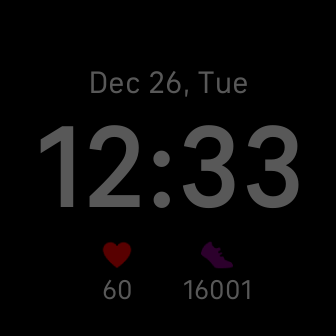
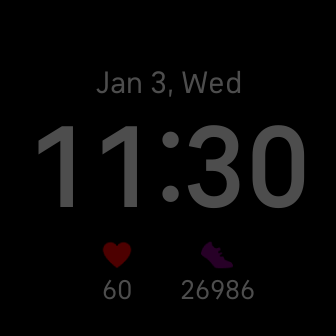
✨ Add support for 12h format and change numbers to monospacing

diff --git a/app/index.js b/app/index.js
@@ -6,6 +6,7 @@ import { BodyPresenceSensor } from "body-presence";
 import { today } from "user-activity";
 import { display } from "display";
 import sleep from "sleep";
+import { preferences } from "user-settings";
 
 const Tap = (element, callback) => {
   let timer;
@@ -64,20 +65,33 @@ const month = [
 const getDay = (date) =>
   `${month[date.getMonth()]} ${date.getDate()}, ${weekdays[date.getDay()]}`;
 
-const zeroPad = (i) => (i < 10 ? (i = "0" + i) : i);
+const monoDigits = (number) => {
+  const text = number.toString();
+  const [tens, unit] = text;
+  const mono = (n) => {
+    return String.fromCharCode(0x10 + Number(n));
+  };
+  return `${mono(tens)}${mono(unit)}`;
+};
+const formatTime = (i) => monoDigits(i < 10 ? (i = "0" + i) : i);
 
 clock.granularity = "minutes";
 
 const time = document.getElementById("clock");
 const date = document.getElementById("date");
+const amPm = document.getElementById("am-pm");
 
 clock.ontick = (evt) => {
+  const is24h = preferences.clockDisplay === "24h";
   const today = evt.date;
-  const hours = zeroPad(today.getHours());
-  const mins = zeroPad(today.getMinutes());
-  time.text = `${hours}:${mins}`;
+  const hours = formatTime(is24h ? today.getHours() : today.getHours() % 12);
+  const mins = formatTime(today.getMinutes());
+  time.text = `${hours} ${mins}`;
 
   date.text = getDay(today);
+  const isAfternoon = today.getHours() / 12 >= 1;
+  amPm.style.display = is24h ? "none" : "";
+  amPm.text = isAfternoon ? "PM" : "AM";
 };
 
 /**

diff --git a/resources/styles.css b/resources/styles.css
@@ -49,6 +49,27 @@ text {
   text-anchor: middle;
 }
 
+#am-pm {
+  y: 80%;
+  font-size: 18;
+  font-family: System-Bold;
+  text-anchor: middle;
+}
+
+.dots {
+  font-size: 120;
+  font-family: System-Bold;
+  text-anchor: middle;
+}
+
+#dot-top {
+  y: 60%;
+}
+
+#dot-bottom {
+  y: 100%;
+}
+
 .stats {
   width: 60%;
   height: 20%;

diff --git a/README.md b/README.md
@@ -6,6 +6,7 @@ A custom Fitbit facewatch that allowed me to understand what my device provides 
 
 This watch targets simplicity, however there are some hidden things that make it very functional.
 
+- Support for 12/24h display option;
 - Flashlight - `Triple-tap` to activate a flashlight, it is something that I regularly need when searching something in a low-light environment;
 - Asleep brightness - When the watch detects you as being asleep, when I try to see the time at 3am I often get "flashed". With this facewatch, it dims the brightness in order to make it less painful to glimpse time.
 
@@ -31,5 +32,9 @@ If you want to deploy it directly to your watch, follow the steps:
   - Scroll to `Developer Bridge`
   - Activate it
 - When inside the command line tools for fitbit (where you execute `bi`), execute `connect device` to check if the device is detected
+
+# Documentation
+
+## [Monospacing](https://dev.fitbit.com/build/guides/user-interface/css/#monospace-numbers)
 
 ### I do this for free, but if you want to donate anything... [Thank you!](https://www.paypal.com/donate/?business=464DTVYBGS6M8&no_recurring=1&item_name=Thank+you+so+much%2C+this+makes+me+want+to+continue+doing+what+I%27m+doing+and+more%21%21%21&currency_code=EUR)
